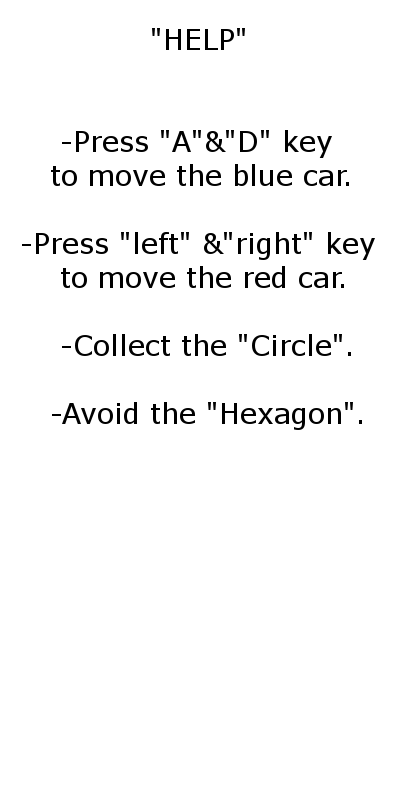
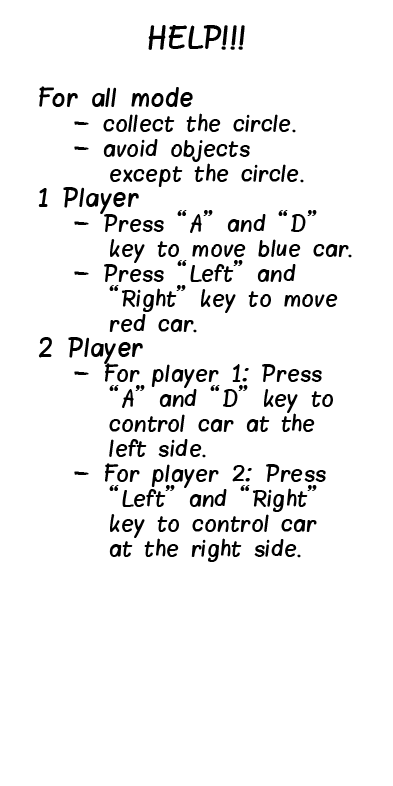
Fix text in Help class
add text to explain how to play for pvp mode.

diff --git a/Scoreboard.java b/Scoreboard.java
@@ -1,5 +1,5 @@
 import greenfoot.*;  // (World, Actor, GreenfootImage, Greenfoot and MouseInfo)
-import java.awt.*;
+//import java.awt.*;
 /**
  * Write a description of class Scoreboard here.
  * 
@@ -11,7 +11,7 @@ public class Scoreboard extends World
     GreenfootImage board=new GreenfootImage("button_scoreboard.png");
     GreenfootImage scorePic;
     public Scoreboard()
-    {    
+    {     
         super(420, 840, 1);
         MainMenu.curPage = "Score";
         scorePic=new GreenfootImage(Space.message,60,Color.DARK_GRAY,Color.LIGHT_GRAY);

diff --git a/Help.java b/Help.java
@@ -15,7 +15,7 @@ public class Help extends World
     {    
         super(420, 840, 1);
         MainMenu.curPage = "Help";
-        getBackground().drawImage(txt, 5,50);
-        addObject(new BackButt(),getWidth()/2,3*getHeight()/4);
+        getBackground().drawImage(txt, 5,40);
+        addObject(new BackButt(),getWidth()/2,3*getHeight()/4+10);
     }
 }

diff --git a/Hyperspace.java b/Hyperspace.java
@@ -1,5 +1,5 @@
 import greenfoot.*;  // (World, Actor, GreenfootImage, Greenfoot and MouseInfo)
-import java.awt.*;
+//import java.awt.*;
 
 /**
  * Write a description of class Hyperspace here.

diff --git a/PVPHyperspace.java b/PVPHyperspace.java
@@ -1,5 +1,5 @@
 import greenfoot.*;  // (World, Actor, GreenfootImage, Greenfoot and MouseInfo)
-import java.awt.*;
+//import java.awt.*;
 import javax.swing.JOptionPane;
 
 /**
